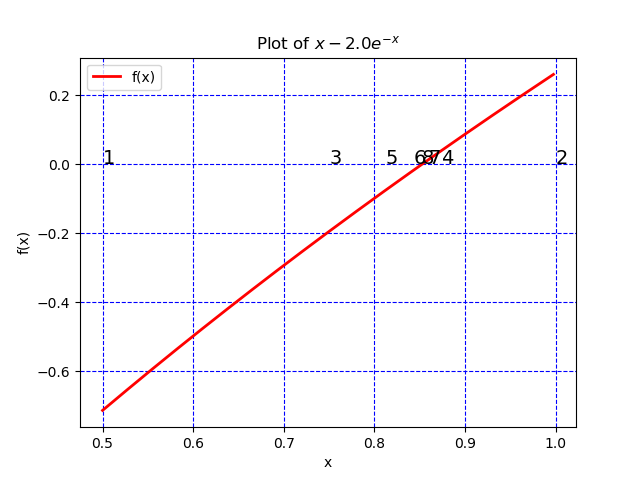
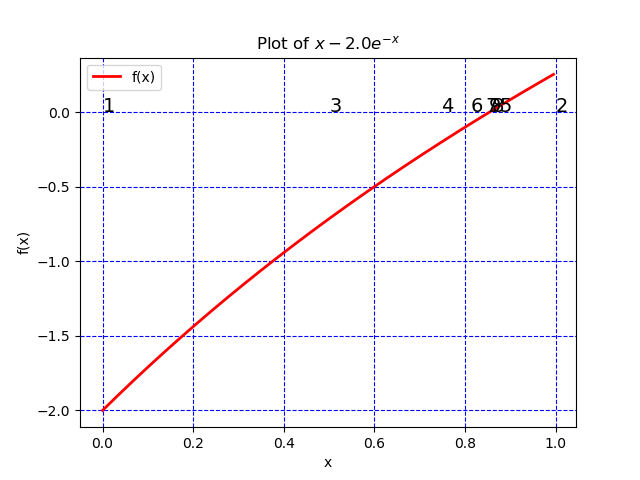
Prepped for ENGR 3703 class for Spring 2020

diff --git a/bisection.py b/bisection.py
@@ -8,9 +8,9 @@ import sympy as sympy
 
 def f_string():
     fn_string = 'x - 2.0 * exp(-x)'
-    #fn_string = "pow(x,3)-x-exp(x)-1+y"
+    #fn_string = 'x**3 - x - exp(x)-1'
     #fn_string = "-0.3*x**3"
-    #fn_string = "(x**2)-(exp(x)/x)"
+    #fn_string = '(x ** (4)) - (exp(x) / x)'
     return fn_string
 
 def f(x):
@@ -20,7 +20,7 @@ def f(x):
     return tmp
 
 def main():
-    a = 0.5  # define and a and b (bracketing values)
+    a = 0.0  # define and a and b (bracketing values)
     b = 1
     x_start = a
     x_end = b

diff --git a/false_position.py b/false_position.py
@@ -20,8 +20,8 @@ def f(x):
     return tmp
 
 def main():
-    a = 0.2  # define and a and b (bracketing values)
-    b = 2
+    a = 0.0  # define and a and b (bracketing values)
+    b = 1.0
     x_start = a
     x_end = b
     table = [["i","root approx.","rel. error"]]

diff --git a/secant.py b/secant.py
@@ -14,7 +14,6 @@ def f_string():
     return fn_string
 
 def f(x):
-    # tmp = 1.2*pow(x,3)+2*pow(x,2)-20*x-10
     string = f_string()
     tmp = eval(string)
     return tmp
